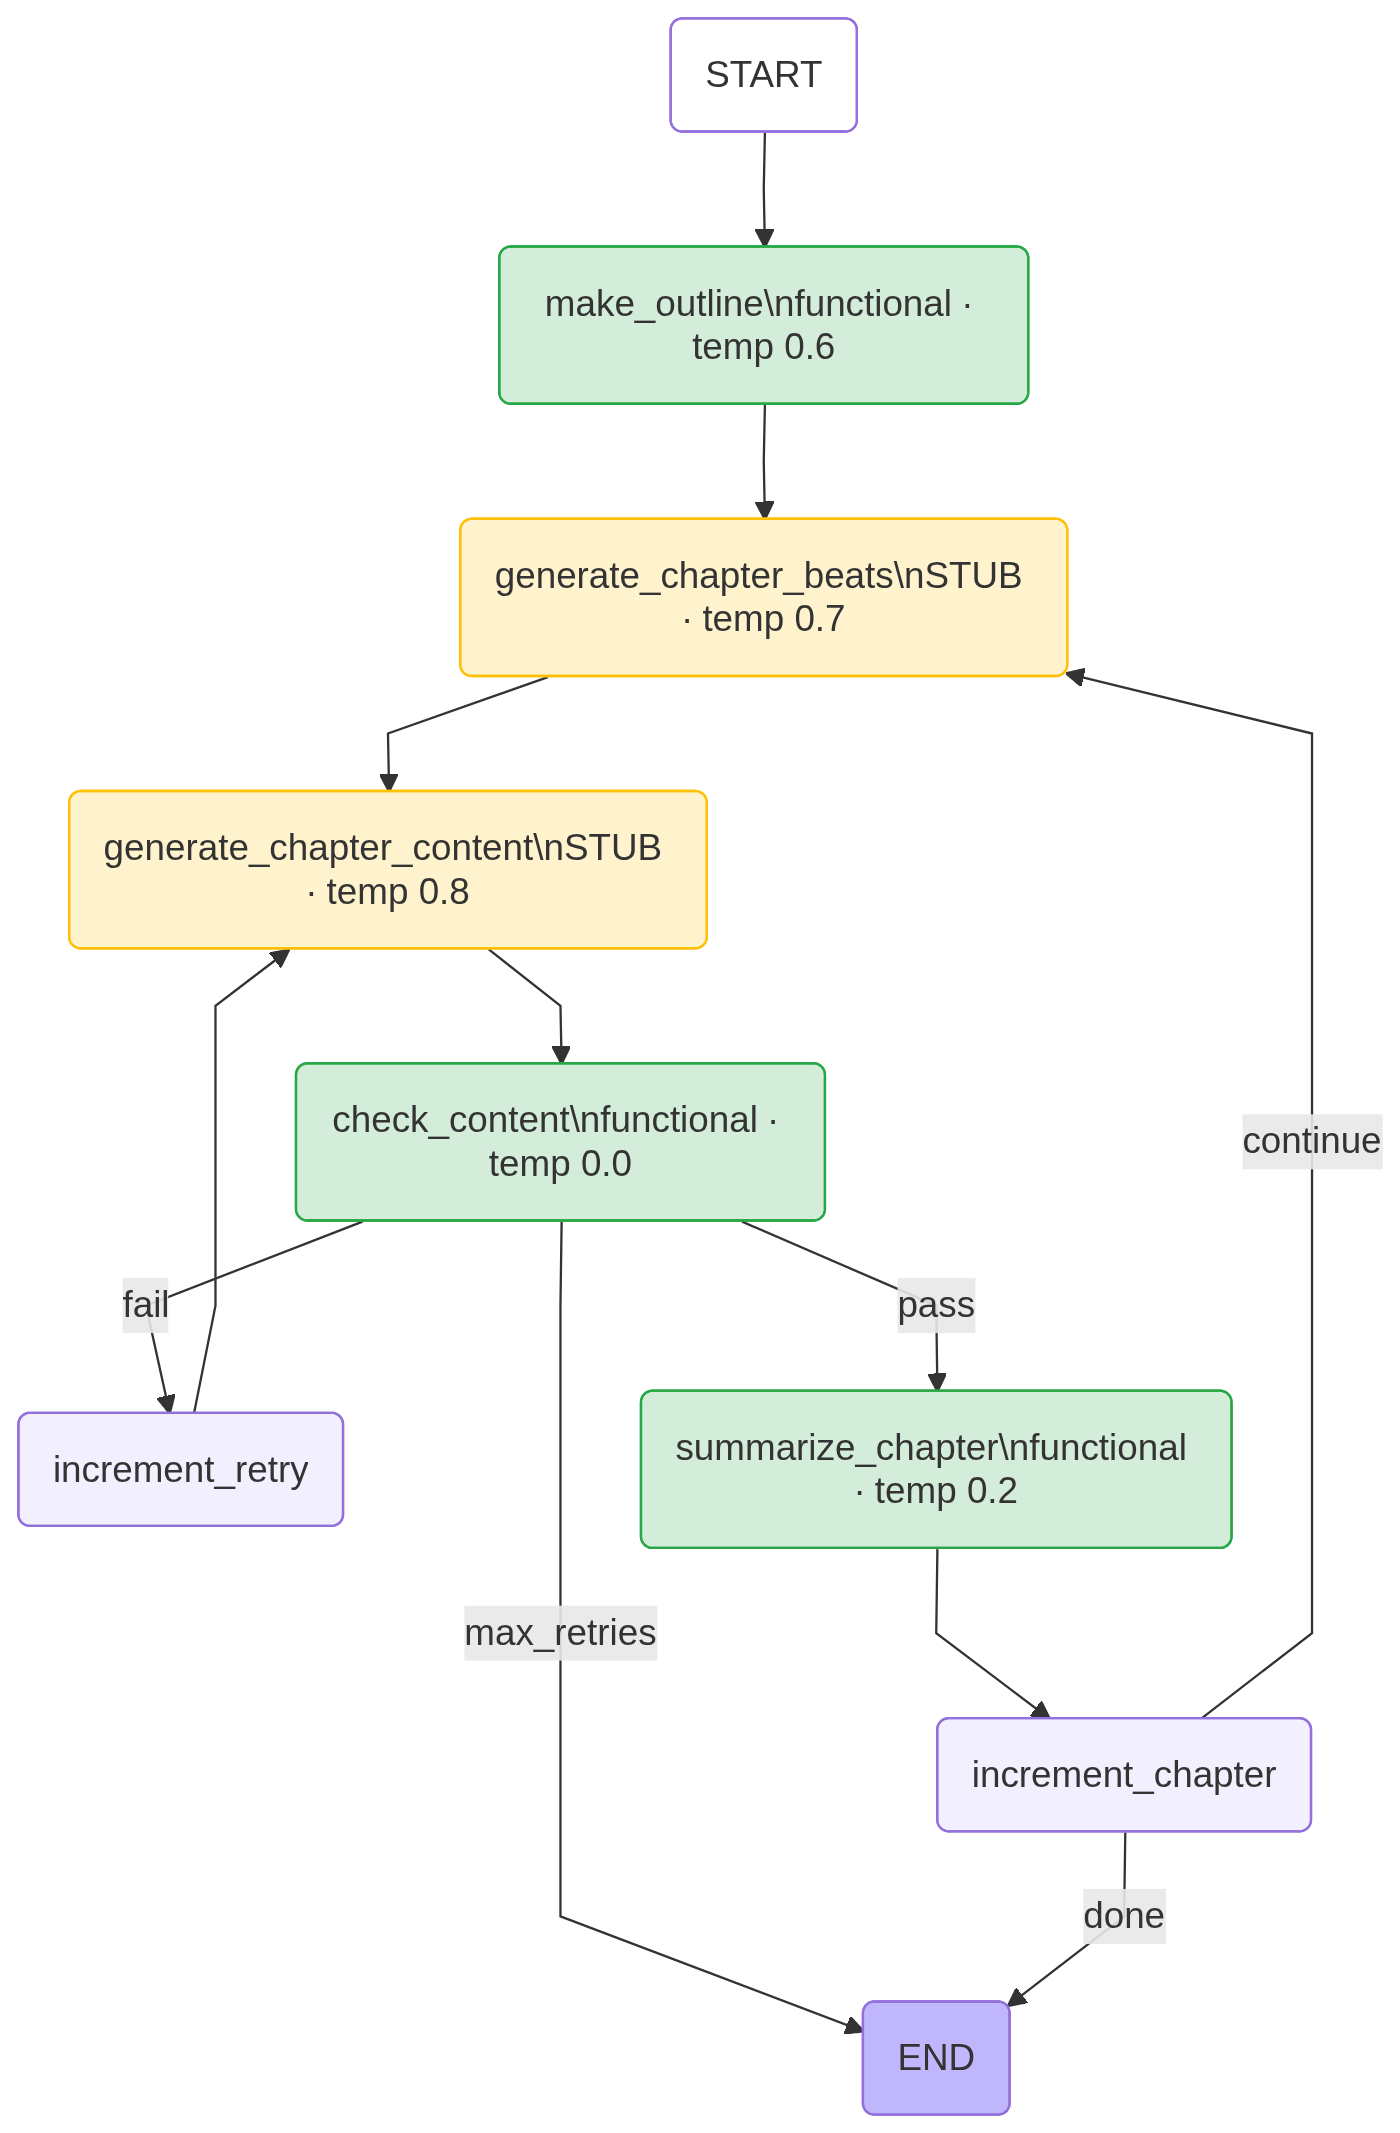
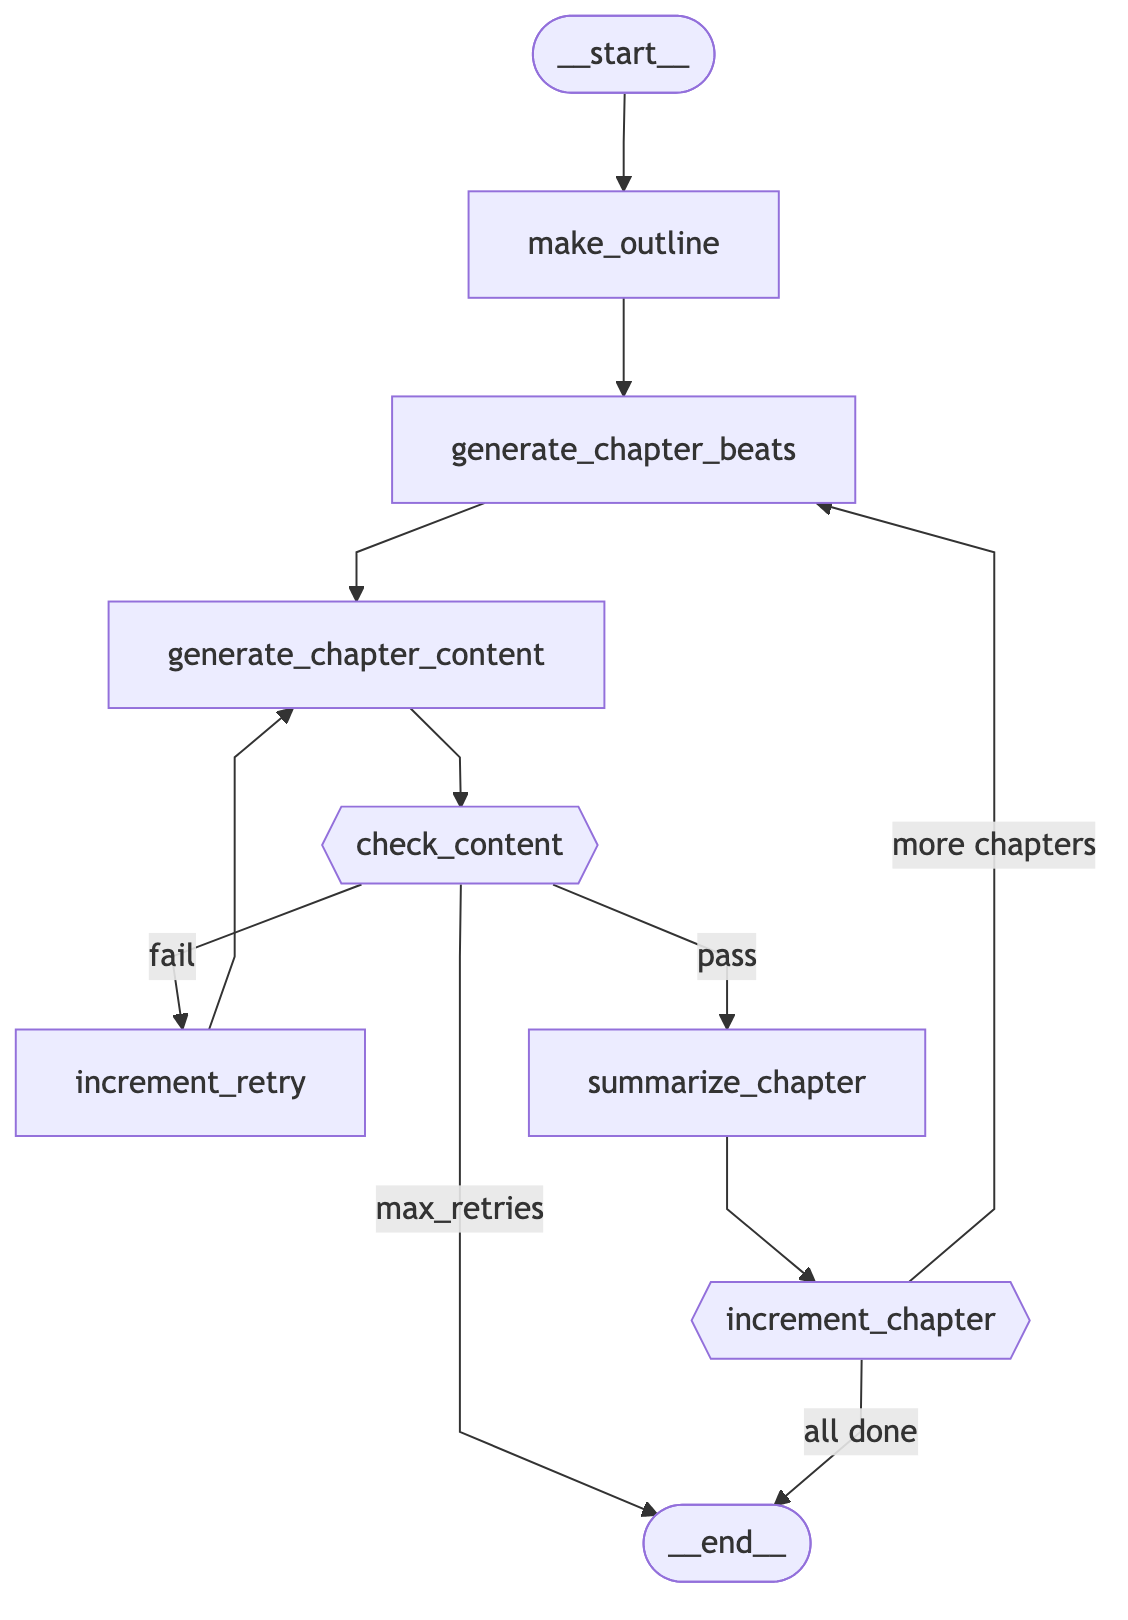
feat: add render_graph.py script with correct conditional edges; regenerate graph artifacts

diff --git a/scripts/render_graph.py b/scripts/render_graph.py
@@ -1,0 +1,85 @@
+"""
+Render the LangGraph StoryAgent graph as both Mermaid source and PNG image
+into the data/ folder.
+
+Usage:
+    python -m scripts.render_graph
+
+We write a hand-built mermaid here instead of using LangGraph's draw_mermaid()
+because the built-in renderer drops conditional edges entirely — nodes like
+increment_retry and increment_chapter end up as floating orphans. The graph
+below is a faithful representation of the wiring in src/agents/langgraph_agent.py:
+
+    START → make_outline → generate_chapter_beats → generate_chapter_content
+          → check_content →[pass]→ summarize_chapter → increment_chapter
+                                                                →[continue]→ generate_chapter_beats
+                                                                →[done]→ END
+                          →[fail]→ increment_retry → generate_chapter_content
+                          →[max_retries]→ END
+"""
+
+import os
+import subprocess
+import sys
+
+MERMAID = """---
+config:
+  flowchart:
+    curve: linear
+---
+graph TD;
+    __start__([__start__])
+    make_outline[make_outline]
+    generate_chapter_beats[generate_chapter_beats]
+    generate_chapter_content[generate_chapter_content]
+    check_content{{check_content}}
+    increment_retry[increment_retry]
+    summarize_chapter[summarize_chapter]
+    increment_chapter{{increment_chapter}}
+    __end__([__end__])
+
+    __start__ --> make_outline
+    make_outline --> generate_chapter_beats
+    generate_chapter_beats --> generate_chapter_content
+    generate_chapter_content --> check_content
+
+    check_content -->|"pass"| summarize_chapter
+    check_content -->|"fail"| increment_retry
+    check_content -->|"max_retries"| __end__
+
+    increment_retry --> generate_chapter_content
+    summarize_chapter --> increment_chapter
+
+    increment_chapter -->|"more chapters"| generate_chapter_beats
+    increment_chapter -->|"all done"| __end__
+"""
+
+
+def main() -> None:
+    repo_root = os.path.dirname(os.path.dirname(os.path.abspath(__file__)))
+    data_dir = os.path.join(repo_root, "data")
+    os.makedirs(data_dir, exist_ok=True)
+
+    mmd_path = os.path.join(data_dir, "graph.mmd")
+    png_path = os.path.join(data_dir, "graph.png")
+
+    with open(mmd_path, "w") as f:
+        f.write(MERMAID)
+    print(f"  wrote {mmd_path}")
+
+    # Render PNG via the mermaid CLI (mmdc).
+    # Install: npm install -g @mermaid-js/mermaid-cli
+    try:
+        subprocess.run(
+            ["mmdc", "-i", mmd_path, "-o", png_path, "-b", "transparent", "-s", "2"],
+            check=True,
+        )
+        print(f"  wrote {png_path}")
+    except FileNotFoundError:
+        print("  mmdc not found — install with: npm install -g @mermaid-js/mermaid-cli")
+        print(f"  skipped {png_path} (you can paste {mmd_path} into mermaid.live to render)")
+        sys.exit(1)
+
+
+if __name__ == "__main__":
+    main()
